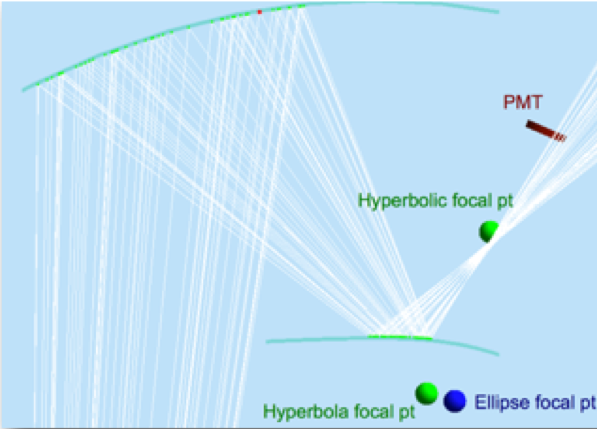
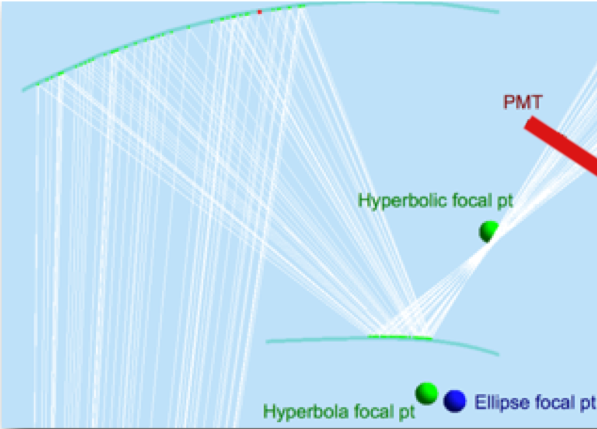
changed pics, started mirror alignment section

Changed region(s): [[0.8744, 0.2727, 1.0, 0.4242]]

diff --git a/ltcc/mirrors.tex b/ltcc/mirrors.tex
@@ -22,8 +22,7 @@ Due to the material, assembly and dimension of the different type of mirrors, tw
 The cylindrical mirrors range from 6 to 12 inches in length. Each mirror is made by a single piece of aluminum or plastic.
 Due to the small size, it can fit in most vacuum chambers used to coat mirrors by evaporation of aluminum with magnesium fluoride
 ($AlMg_2$). After successful testing a re-coating of $AlMg_2$ onto the existing substrate, the work of recoating 216 cylindrical mirrors
-was awared to ECI~\cite{ECI}. The re-coated mirrors shows a $\sim 90\%$ reflectivity in the visible spectrum and an exceptional $\sim 80\%$
-reflectivity in the UV spectrum, see Fig.~\ref{fig:reflectivityAfter} for typical curves.
+was awared to ECI~\cite{ECI}. See Fig.~\ref{fig:reflectivityAfter} for typical reflectivity values after recoating.
 
 
 \subsubsection{Re-coating of Elliptical and Hyperbolic mirrors}
@@ -65,28 +64,37 @@ The segment with long elliptical mirrors presented several gaps between them, so
 additional 120 micron thick lexan extension coated with $AlMg_2$ were glued to cover the gaps. The strips were manufactured by ECI~\cite{ECI}.
 
 
-\subsubsection{Mirrors re-coating summary and results}
-
-In Fig.~\ref{fig:reflectivityAfter} spectrum of 
-
 \begin{figure}[h]
 \centering
-	\includegraphics[width=1.0\columnwidth,keepaspectratio]{img/mirrorsReflectivityAfter.png}
-	\caption{Average number of reflections calculated from simulations studies.}
+	\includegraphics[width=0.95\columnwidth,keepaspectratio]{img/mirrorsReflectivityAfter.png}
+	\caption{Typical mirror reflectivity measure after re-coating the mirrors or glueing the lexan strips. Note the very high value of reflectivity
+            in the UV region, where most of the Cherenkov light is produced. In the visible spectrum, the reflectivity is about $\sim 90\%$.}
 	\label{fig:reflectivityAfter}
 \end{figure}
 
 
+\subsubsection{Mirrors re-coating summary and results}
 
+In Fig.~\ref{fig:reflectivityAfter} a typical spectrum of reflectivity that applies to all cylindrical, elliptical and hyperbolic mirrors is shown.
+The re-coated mirrors shows a $\sim 90\%$ reflectivity in the visible spectrum and an exceptional $\sim 80\%$
+reflectivity in the UV spectrum,
 
 \subsection{Mirrors Alignment}
 
+A new procedure was developed to align the mirrors that takes advantage of their focusing capabilities. The elliptical mirrors focal points are 1. the target
+(origin of the lab coordinate system)
+and 2. a point behind the hyperbolic mirror. The focal points if the hyperbolic mirrors are 1. a point near the focal point of the elliptical mirrors and
+2. above the face of the PMTs.
+
+This mathematical model of the mirrors has been build in the geant4 simulation, see Fig.~\ref{fig:alignmentSimulation}. When a laser line is directed at the mirror,
+it is focused on the hyperbolic focal point, this directed at the PMT.
 
 
 \begin{figure}[h]
 \centering
-	\includegraphics[width=1.0\columnwidth, height=0.5\textheight]{img/mirrorAlignmentSimulation.png}
-	\caption{Average number of reflections calculated from simulations studies.}
+	\includegraphics[width=1.0\columnwidth, keepaspectratio]{img/mirrorAlignmentSimulationZoomed.png}
+	\caption{The simulation of a laser line (white tracks are photons) originating from the target and directed at the elliptical mirrors. The photons are directed
+		      at the second ellipse focal point, and the hyperbolic mirror reflects them on its focal point. This picture illustrate the procedure used to align the mirrors.}
 	\label{fig:alignmentSimulation}
 \end{figure}
 
